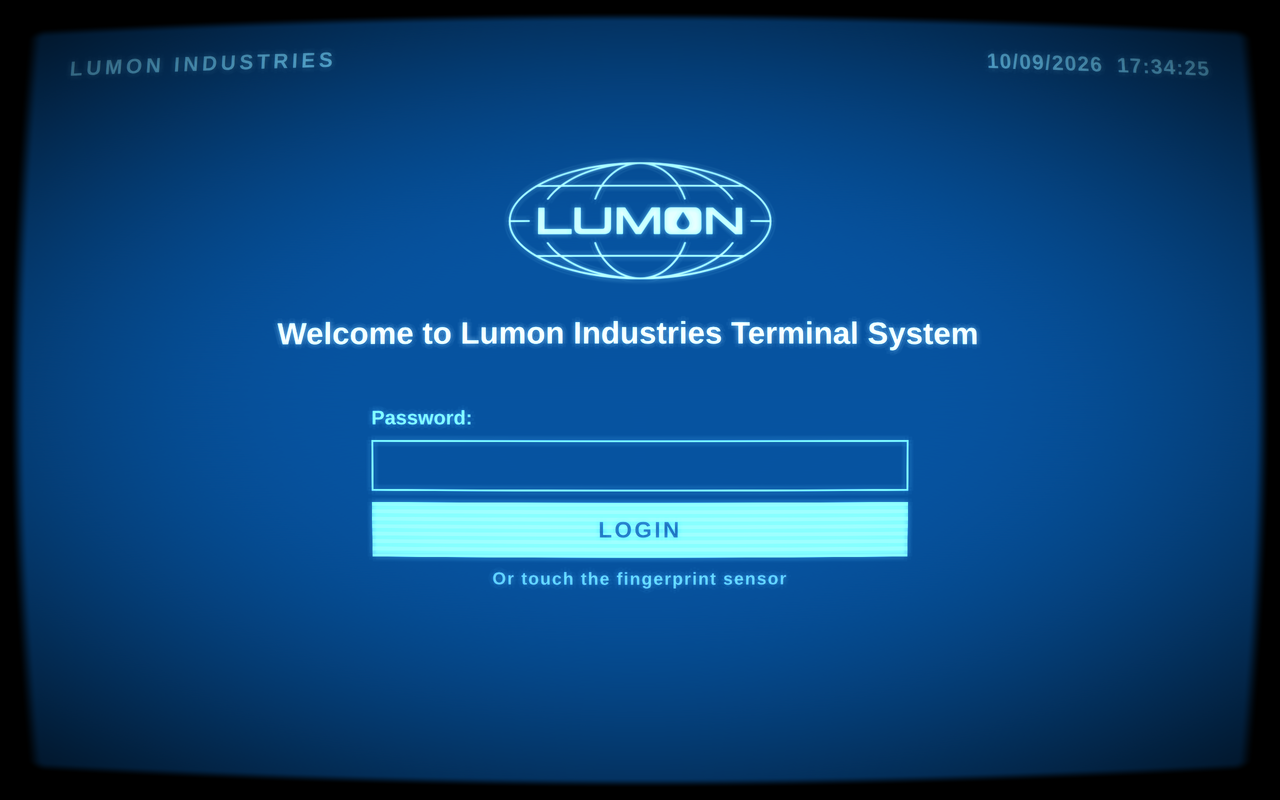
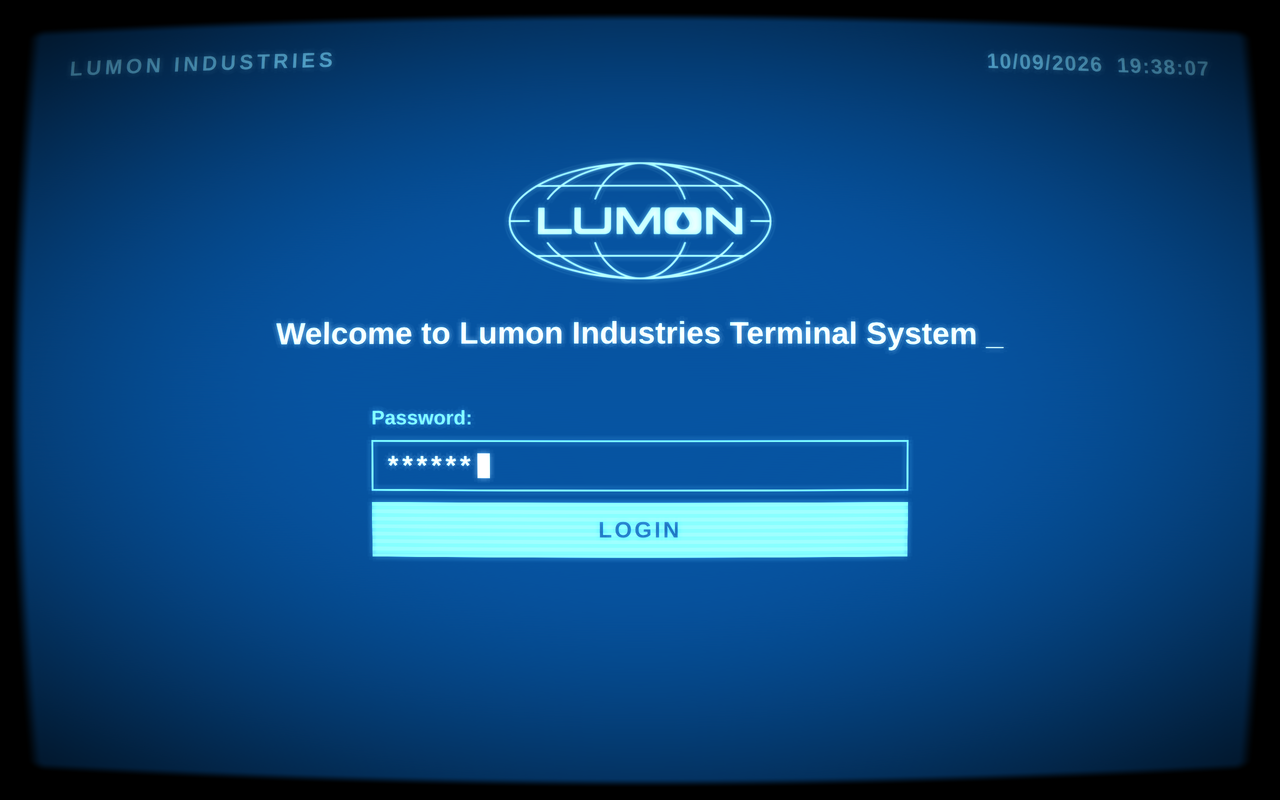
Add GIFs and fresh screenshots of the MDR screen and the lock
docs/mdr.gif hovers over the grid and refines a cluster into a bin;
docs/lock.gif goes from MDR to the login, through a failed attempt,
and back to MDR with Escape. The stills show the MDR screen, the login
with a typed password, and AUTHENTICATION FAILED. preview.png, which
the Omarchy marketplace shows, is the MDR still.

All of it was captured with the screensaver or the test harness (fake
authentication, typing the word "refine") covering the whole screen,
with notifications silenced, and every frame was checked to show only
the MDR screen or the login. The GIFs are 800px at 12fps with 48
colours (3.4MB and 2.2MB); the stills are 1280px with metadata
stripped.

docs/idle.png is replaced by docs/mdr.png.

diff --git a/README.md b/README.md
@@ -4,9 +4,13 @@ The Macrodata Refinement screen from *Severance* as an interactive screensaver,
 and a Lumon terminal login as the lock screen, for
 [Omarchy](https://omarchy.org) (Hyprland, Quickshell).
 
-| Locked and idle: the MDR screen | After a key press: the login |
-|---|---|
-| ![The MDR screen](docs/idle.png) | ![The Lumon terminal login](docs/login.png) |
+![Hovering over the MDR screen and refining a cluster into a bin](docs/mdr.gif)
+
+![The lock: MDR while idle, a key press brings up the login, a failed attempt, Escape back to MDR](docs/lock.gif)
+
+| The MDR screen | The login | A failed attempt |
+|---|---|---|
+| ![The MDR screen](docs/mdr.png) | ![The Lumon terminal login](docs/login.png) | ![Authentication failed](docs/login-failed.png) |
 
 Move the pointer and the digits under it swell, like the refiners' terminals
 in the show. Three clusters of "scary" numbers hide in the grid and jitter when
